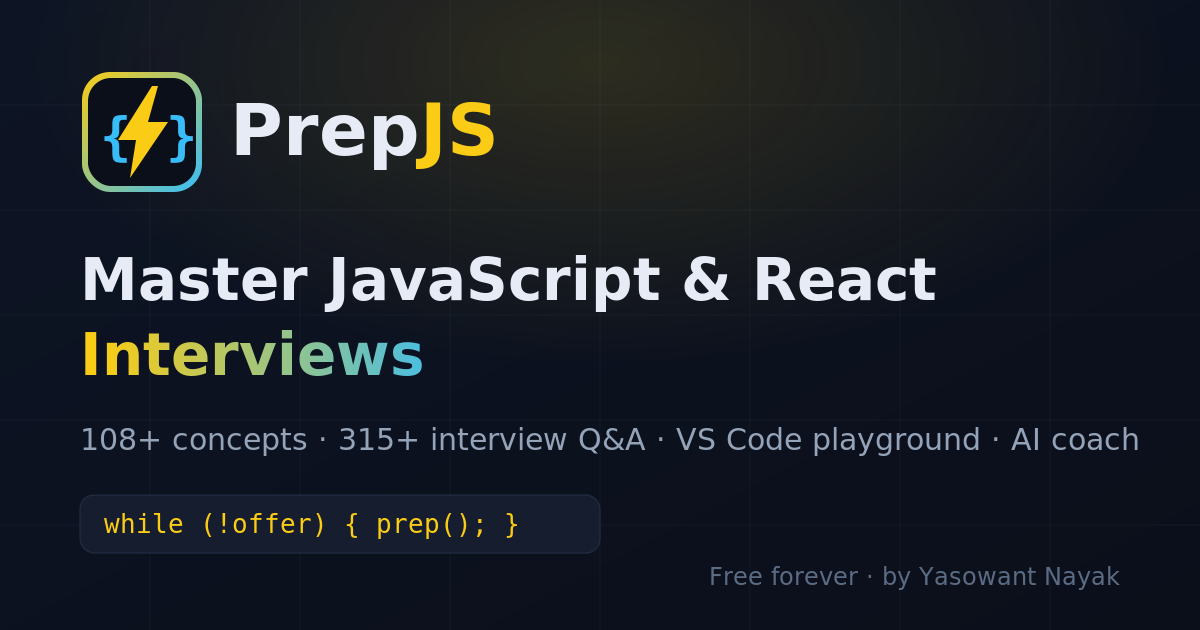
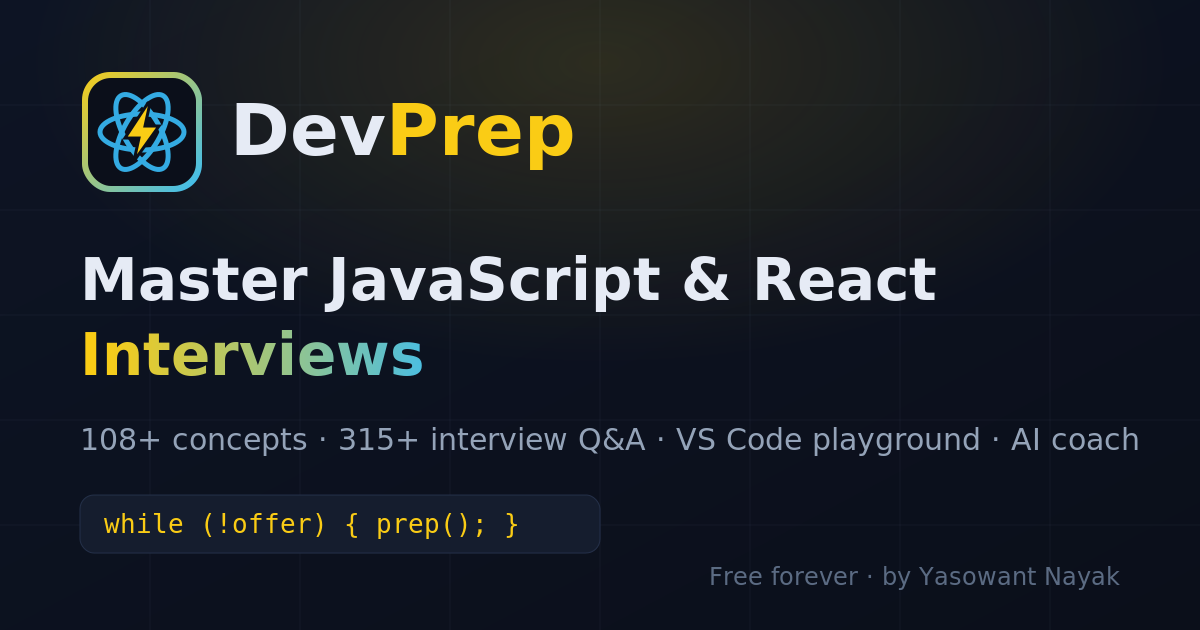
updated code

Changed region(s): [[0.185, 0.1508, 0.4933, 0.2714], [0.0617, 0.1206, 0.1542, 0.2714]]

diff --git a/src/components/Logo.jsx b/src/components/Logo.jsx
@@ -1,17 +1,25 @@
 export default function Logo({ size = 34 }) {
   return (
-    <svg width={size} height={size} viewBox="0 0 64 64" aria-label="PrepJS logo">
+    <svg width={size} height={size} viewBox="0 0 64 64" aria-label="DevPrep logo">
       <defs>
-        <linearGradient id="pjGrad" x1="0" y1="0" x2="1" y2="1">
+        <linearGradient id="dpGrad" x1="0" y1="0" x2="1" y2="1">
           <stop offset="0%" stopColor="#facc15" />
           <stop offset="100%" stopColor="#38bdf8" />
         </linearGradient>
       </defs>
-      <rect x="2" y="2" width="60" height="60" rx="15" fill="url(#pjGrad)" />
+      <rect x="2" y="2" width="60" height="60" rx="15" fill="url(#dpGrad)" />
       <rect x="5" y="5" width="54" height="54" rx="12" fill="#0b0f1a" />
-      <text x="11" y="43" fontFamily="monospace" fontSize="26" fontWeight="bold" fill="#38bdf8">{"{"}</text>
-      <path d="M37 9 L20 36 h9 L26 55 L45 27 h-10 L40 9 Z" fill="#facc15" />
-      <text x="44" y="43" fontFamily="monospace" fontSize="26" fontWeight="bold" fill="#38bdf8">{"}"}</text>
+      <g stroke="#38bdf8" strokeWidth="2.6" fill="none" opacity="0.9">
+        <ellipse cx="32" cy="32" rx="22" ry="9.5" />
+        <ellipse cx="32" cy="32" rx="22" ry="9.5" transform="rotate(60 32 32)" />
+        <ellipse cx="32" cy="32" rx="22" ry="9.5" transform="rotate(120 32 32)" />
+      </g>
+      <path
+        d="M35 17 L23 35 h7.5 L28 47 L41 29 h-7.5 L36 17 Z"
+        fill="#facc15"
+        stroke="#0b0f1a"
+        strokeWidth="1.5"
+      />
     </svg>
   );
 }

diff --git a/index.html b/index.html
@@ -3,15 +3,15 @@
   <head>
     <meta charset="UTF-8" />
     <meta name="viewport" content="width=device-width, initial-scale=1.0" />
-    <title>PrepJS — Master JavaScript & React Interviews</title>
+    <title>DevPrep — Master JavaScript & React Interviews</title>
     <meta name="description" content="Every JavaScript & React concept from basics to advanced. 315+ interview Q&A, quizzes, a VS Code playground and an AI coach — everything you need to crack your frontend interview." />
     <link rel="icon" type="image/svg+xml" href="/logo.svg" />
     <meta name="theme-color" content="#0b0f1a" />
 
     <!-- Open Graph (WhatsApp / LinkedIn / Facebook share preview) -->
     <meta property="og:type" content="website" />
-    <meta property="og:site_name" content="PrepJS" />
-    <meta property="og:title" content="PrepJS — Master JavaScript & React Interviews" />
+    <meta property="og:site_name" content="DevPrep" />
+    <meta property="og:title" content="DevPrep — Master JavaScript & React Interviews" />
     <meta property="og:description" content="108+ concepts, 315+ interview Q&A, a VS Code playground and an AI coach. Free forever." />
     <meta property="og:url" content="https://prepjs-client.vercel.app/" />
     <meta property="og:image" content="https://prepjs-client.vercel.app/og.png" />
@@ -20,7 +20,7 @@
 
     <!-- Twitter/X card -->
     <meta name="twitter:card" content="summary_large_image" />
-    <meta name="twitter:title" content="PrepJS — Master JavaScript & React Interviews" />
+    <meta name="twitter:title" content="DevPrep — Master JavaScript & React Interviews" />
     <meta name="twitter:description" content="108+ concepts, 315+ interview Q&A, a VS Code playground and an AI coach. Free forever." />
     <meta name="twitter:image" content="https://prepjs-client.vercel.app/og.png" />
     <link rel="preconnect" href="https://fonts.googleapis.com" />
@@ -109,11 +109,14 @@
         </defs>
         <rect x="2" y="2" width="60" height="60" rx="15" fill="url(#spGrad)"/>
         <rect x="5" y="5" width="54" height="54" rx="12" fill="#0b0f1a"/>
-        <text x="11" y="43" font-family="monospace" font-size="26" font-weight="bold" fill="#38bdf8">{</text>
-        <path d="M37 9 L20 36 h9 L26 55 L45 27 h-10 L40 9 Z" fill="#facc15"/>
-        <text x="44" y="43" font-family="monospace" font-size="26" font-weight="bold" fill="#38bdf8">}</text>
+        <g stroke="#38bdf8" stroke-width="2.6" fill="none" opacity="0.9">
+          <ellipse cx="32" cy="32" rx="22" ry="9.5"/>
+          <ellipse cx="32" cy="32" rx="22" ry="9.5" transform="rotate(60 32 32)"/>
+          <ellipse cx="32" cy="32" rx="22" ry="9.5" transform="rotate(120 32 32)"/>
+        </g>
+        <path d="M35 17 L23 35 h7.5 L28 47 L41 29 h-7.5 L36 17 Z" fill="#facc15" stroke="#0b0f1a" stroke-width="1.5"/>
       </svg>
-      <div class="splash-name">Prep<b>JS</b></div>
+      <div class="splash-name">Dev<b>Prep</b></div>
       <div class="splash-tag">while (!offer) { prep(); }</div>
       <div class="splash-bar"></div>
     </div>

diff --git a/src/pages/Landing.jsx b/src/pages/Landing.jsx
@@ -61,7 +61,7 @@ const TYPED_LINES = [
   'console.log("end");',
   "",
   "// → start, end, promise, timer  🤯",
-  "// Can you explain WHY? PrepJS can.",
+  "// Can you explain WHY? DevPrep can.",
 ];
 
 function TypingCode() {
@@ -126,12 +126,12 @@ const TESTIMONIALS = [
 ];
 
 const FAQS = [
-  ["Is PrepJS really free?", "Yes — every concept, quiz, the playground and the AI coach are free. Just sign up and verify your email."],
+  ["Is DevPrep really free?", "Yes — every concept, quiz, the playground and the AI coach are free. Just sign up and verify your email."],
   ["Does it cover React or only JavaScript?", "Both, fully. The React track has 27 concepts and 100+ interview Q&A: JSX, hooks deep-dives, Virtual DOM, performance, Redux, React 18 concurrent features, and the most-asked practical scenario questions."],
   ["I'm a complete beginner. Will I understand it?", "Absolutely. Concepts are organized basic → intermediate → advanced. Start with JS Fundamentals, and several concepts (including JSX and useState) are open without even logging in."],
   ["How is this different from YouTube tutorials?", "Every concept is structured for interviews: explanation + runnable code + the actual Q&A interviewers ask. Plus a 315-question Q&A bank, quizzes to prove you retained it, and progress tracking to keep you honest."],
   ["Does it cover machine coding rounds?", "Yes — polyfills (map, bind, Promise.all), debounce/throttle, deep clone, event emitters, coding problems with auto-tests, and scenario projects like LRU cache and rate limiters."],
-  ["Can I practice code inside PrepJS?", "Yes — the Playground is a real VS Code (Monaco) editor with coding problems, projects, runnable snippets and your own files, saved in your browser."],
+  ["Can I practice code inside DevPrep?", "Yes — the Playground is a real VS Code (Monaco) editor with coding problems, projects, runnable snippets and your own files, saved in your browser."],
 ];
 
 /* ---------- page ---------- */
@@ -302,7 +302,7 @@ export default function Landing() {
           <div className="code-window pg-promo-window">
             <div className="code-titlebar">
               <span className="dot red" /><span className="dot yellow" /><span className="dot green" />
-              <span className="code-filename">closures.js — PrepJS Playground</span>
+              <span className="code-filename">closures.js — DevPrep Playground</span>
             </div>
             <pre>{`function makeCounter() {
   let count = 0;        // private via closure
@@ -393,7 +393,7 @@ TERMINAL
       <section className="section" id="developer">
         <Reveal>
           <h2>Building <span className="gradient-text shimmer">Engineers</span>, Not Just Coders</h2>
-          <p className="dev-section-sub">— from the developer behind PrepJS</p>
+          <p className="dev-section-sub">— from the developer behind DevPrep</p>
         </Reveal>
         <Reveal delay={80}>
           <div className="dev-card">
@@ -408,7 +408,7 @@ TERMINAL
                 Full Stack Engineer with <strong>3+ years</strong> building production SaaS on
                 React.js and Node.js — scaling a multi-tenant platform to <strong>8+ enterprise
                 organizations</strong>, cutting release time 50% with CI/CD, and mentoring
-                developers along the way. I built PrepJS from the exact concepts and questions
+                developers along the way. I built DevPrep from the exact concepts and questions
                 asked in real interviews, so you can walk in prepared for what actually comes up.
               </p>
               <div className="dev-tech">
@@ -464,7 +464,7 @@ TERMINAL
       <footer className="footer-big">
         <div className="footer-grid">
           <div className="footer-col footer-brand-col">
-            <span className="footer-brand"><Logo size={30} /> Prep<span className="brand-accent">JS</span></span>
+            <span className="footer-brand"><Logo size={30} /> Dev<span className="brand-accent">Prep</span></span>
             <p className="footer-tagline">From <code>console.log</code> to offer letter. 🚀</p>
             <p className="footer-mini">
               The complete JavaScript & React interview prep platform — every concept,
@@ -501,7 +501,7 @@ TERMINAL
         </div>
 
         <div className="footer-bottom">
-          <span>© {new Date().getFullYear()} PrepJS · Developed with ❤️ by <a href="#developer">Yasowant Nayak</a></span>
+          <span>© {new Date().getFullYear()} DevPrep · Developed with ❤️ by <a href="#developer">Yasowant Nayak</a></span>
           <span className="footer-code">while (!offer) &#123; prep(); &#125;</span>
         </div>
       </footer>

diff --git a/src/pages/About.jsx b/src/pages/About.jsx
@@ -42,7 +42,7 @@ const PROJECTS = [
     link: "https://prep.esscentra.in",
   },
   {
-    name: "PrepJS — this app! ⚡",
+    name: "DevPrep — this app! ⚡",
     tech: "React · Node.js · Express · MongoDB · OpenAI · Monaco",
     desc: "Complete JavaScript interview prep platform: 81+ concepts, quizzes, a VS Code playground with coding problems, and an AI coach.",
     link: null,
@@ -89,14 +89,14 @@ export default function About() {
           <div className="about-photo-glow" />
         </div>
         <div className="about-intro">
-          <span className="hero-badge">👋 The developer behind PrepJS</span>
+          <span className="hero-badge">👋 The developer behind DevPrep</span>
           <h1>Yasowant <span className="gradient-text">Nayak</span></h1>
           <p className="about-role">Full Stack Software Engineer · Bangalore, India</p>
           <p className="about-summary">
             Full Stack Engineer with 3+ years building production SaaS on React.js and Node.js —
             cutting feature development time 35%, release time 50%, and page loads 40% on a
             multi-tenant platform serving 8+ enterprise organizations. Strong in system design,
-            REST/GraphQL APIs, CI/CD, and mentoring developers. PrepJS is built from the exact
+            REST/GraphQL APIs, CI/CD, and mentoring developers. DevPrep is built from the exact
             concepts and questions faced in real interviews.
           </p>
           <div className="about-links">
@@ -192,7 +192,7 @@ export default function About() {
 
       {/* CTA */}
       <section className="about-cta">
-        <p>Built PrepJS to help you crack what I've been asked in real interviews. 🤝</p>
+        <p>Built DevPrep to help you crack what I've been asked in real interviews. 🤝</p>
         <Link to="/concepts" className="btn btn-primary btn-lg">Start Learning →</Link>
       </section>
     </div>

diff --git a/src/pages/Playground.jsx b/src/pages/Playground.jsx
@@ -26,7 +26,7 @@ function loadStored(key) {
 function buildTestHarness(problem) {
   return `
 
-/* ---------- PrepJS test runner ---------- */
+/* ---------- DevPrep test runner ---------- */
 const __tests = ${JSON.stringify(problem.tests)};
 let __pass = 0;
 for (let __i = 0; __i < __tests.length; __i++) {
@@ -50,7 +50,7 @@ postMessage({ type: "tests", pass: __pass, total: __tests.length });
 }
 
 const SNIPPETS = {
-  "welcome.js": `// ⚡ PrepJS Playground — write JS, hit ▶ Run
+  "welcome.js": `// ⚡ DevPrep Playground — write JS, hit ▶ Run
 // console.log output appears in the terminal below.
 
 const greet = (name) => \`Hello, \${name}! 👋\`;
@@ -92,7 +92,7 @@ console.log("end");
 // Predict the exact order, then run!`,
   "this.js": `// 🎯 'this' — depends on HOW you call
 const user = {
-  name: "PrepJS",
+  name: "DevPrep",
   regular() { console.log("regular:", this.name); },
   arrow: () => console.log("arrow:", this?.name),
 };

diff --git a/src/components/AuthLayout.jsx b/src/components/AuthLayout.jsx
@@ -12,10 +12,10 @@ export default function AuthLayout({ children }) {
     <div className="auth-split">
       <aside className="auth-brand">
         <div className="auth-brand-inner">
-          <div className="auth-logo"><Logo size={42} /> Prep<span className="brand-accent">JS</span></div>
+          <div className="auth-logo"><Logo size={42} /> Dev<span className="brand-accent">Prep</span></div>
           <h2>
             Crack your next<br />
-            <span className="gradient-text">JavaScript interview</span>
+            <span className="gradient-text">frontend interview</span>
           </h2>
           <ul className="auth-perks">
             {PERKS.map(([icon, text]) => (

diff --git a/src/data/projects.js b/src/data/projects.js
@@ -148,7 +148,7 @@ function getStats() {
 // --- try it ---
 addTodo("Learn closures");
 addTodo("Master event loop");
-addTodo("Build PrepJS project");
+addTodo("Build DevPrep project");
 toggleTodo(1);
 console.log("Active:", filterTodos("active"));
 console.log("Done:", filterTodos("done"));
@@ -160,7 +160,7 @@ console.log("Stats:", getStats());
     title: "Quiz Game Engine",
     difficulty: "medium",
     scenario:
-      "PrepJS itself needs a quiz engine (very meta 😄). Build the logic that serves questions one by one, checks answers, tracks score, and produces a final report.",
+      "DevPrep itself needs a quiz engine (very meta 😄). Build the logic that serves questions one by one, checks answers, tracks score, and produces a final report.",
     requirements: [
       "createQuiz(questions) — takes [{ q, options, answer }]",
       "getCurrentQuestion() — question WITHOUT revealing the answer",

diff --git a/src/pages/Chat.jsx b/src/pages/Chat.jsx
@@ -4,7 +4,7 @@ import Markdown from "../components/Markdown.jsx";
 
 const GREETING = {
   role: "assistant",
-  content: "Hi! I'm your PrepJS AI coach 🤖 Ask me anything about JavaScript, React, Node.js or interview prep. Try: \"Explain closures with an example\"",
+  content: "Hi! I'm your DevPrep AI coach 🤖 Ask me anything about JavaScript, React, Node.js or interview prep. Try: \"Explain closures with an example\"",
 };
 
 function timeAgo(date) {
@@ -136,7 +136,7 @@ export default function Chat() {
             </button>
           ))}
         </div>
-        <div className="chat-sidebar-foot">🤖 PrepJS AI Coach</div>
+        <div className="chat-sidebar-foot">🤖 DevPrep AI Coach</div>
       </aside>
 
       {/* ===== chat area ===== */}

diff --git a/src/components/Navbar.jsx b/src/components/Navbar.jsx
@@ -10,7 +10,7 @@ export default function Navbar() {
   return (
     <nav className="navbar">
       <Link to="/" className="brand">
-        <Logo size={30} /> Prep<span className="brand-accent">JS</span>
+        <Logo size={30} /> Dev<span className="brand-accent">Prep</span>
       </Link>
       <div className="nav-links">
         <NavLink to="/concepts">Concepts</NavLink>

diff --git a/src/data/problems.js b/src/data/problems.js
@@ -22,7 +22,7 @@ Do NOT use a loop index if you can — try the split/reverse/join or spread appr
       { expr: `reverseString("hello")`, expected: "olleh" },
       { expr: `reverseString("a")`, expected: "a" },
       { expr: `reverseString("")`, expected: "" },
-      { expr: `reverseString("PrepJS")`, expected: "SJperP" },
+      { expr: `reverseString("DevPrep")`, expected: "SJperP" },
     ],
   },
   {